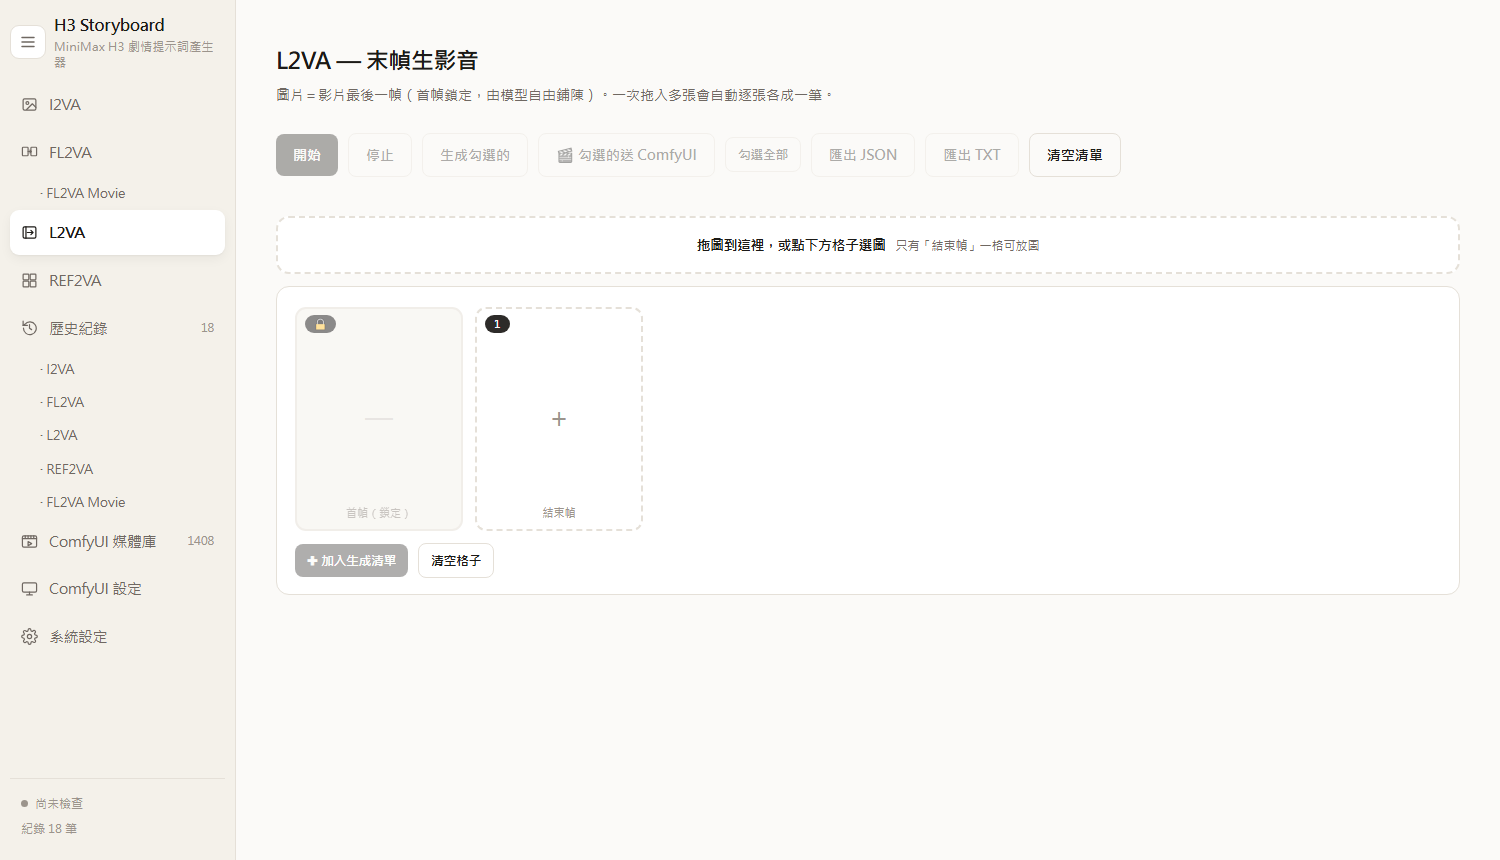
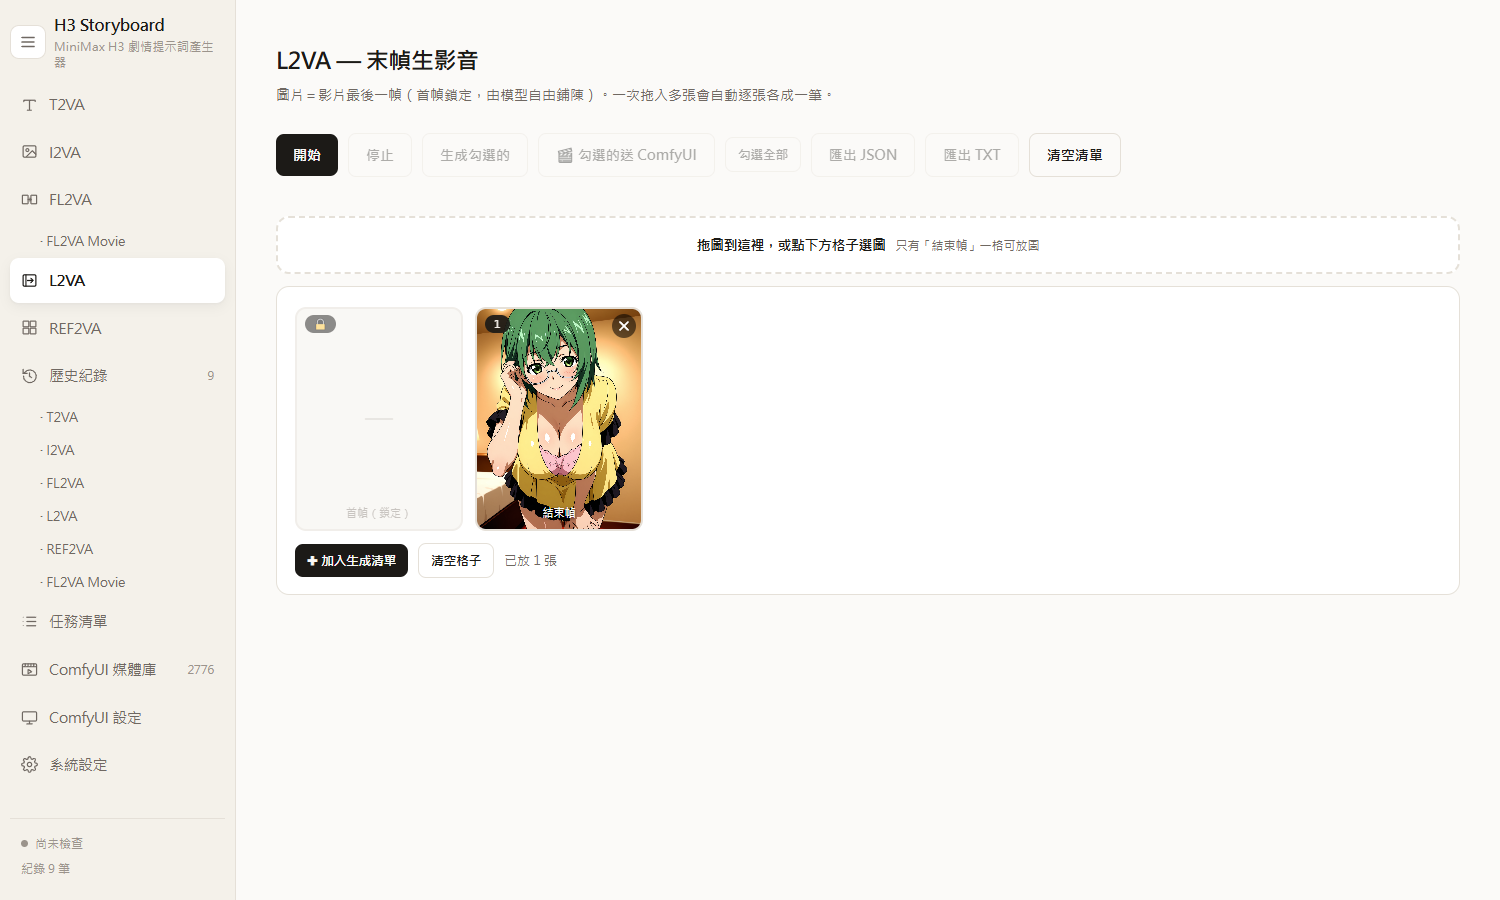
Bring the README and its screenshots up to v1.8
Every screenshot predated the task queue, so none of them showed the
任務清單 entry in the sidebar. All are retaken against the current build,
and a new one shows the queue itself: an active job at the top as a large
card with its live preview, finished jobs as a compact grid below.

Three passages still described the per-card aspect-ratio picker, which v1.8
removed. They now describe what actually happens — the canvas is derived
from the input image and aligned to 32, keeping the pixel budget of the
selected quality tier — with the measured numbers as examples.

The FL2VA Movie shots were taken with an empty board; they now show four
storyboard images resolving to three segments, which is what the surrounding
text is describing.

diff --git a/README.md b/README.md
@@ -48,8 +48,8 @@ The image is the LAST frame; the first frame is unconstrained (locked slot), and
 
 ![REF2VA](docs/img/ref2va.png)
 
-Slots support drag-to-reorder, click-to-replace and per-slot remove; every card has its own aspect-ratio + orientation picker that is honored all the way into the rendered video and its embedded metadata.  
-格子支援拖曳換順序、再點一次換圖、單格移除；每張卡片有獨立的輸出比例＋方向選擇，一路生效到成品影片與其內嵌 metadata。
+Slots support drag-to-reorder, click-to-replace and per-slot remove. There is no aspect-ratio picker: the output canvas is derived from the input image itself and aligned to the model's 32-pixel grid, keeping the pixel budget of the quality tier you chose in ComfyUI settings — so a 1898×2492 portrait renders 640×864 and a 1536×1920 renders 672×832.  
+格子支援拖曳換順序、再點一次換圖、單格移除。沒有比例選項：輸出畫布直接由輸入圖推算並對齊模型要求的 32 像素格線，同時維持你在 ComfyUI 設定所選畫質檔位的像素預算——所以 1898×2492 的直式圖產出 640×864，1536×1920 產出 672×832。
 
 ---
 
@@ -118,8 +118,8 @@ Pick any workflow .json from your workflow folder (or upload one from the page) 
   依模式對應欄位：基礎模式填 Director 三欄位，REF2VA 填六個專屬 ref 欄位，完整 prompt 一律同時走 `external_prompt`。
 - Default parameters (fps, resolution, steps, shift...) can be overridden per send; empty fields keep the template's own values.  
   預設參數（fps／解析度／步數／shift…）可逐項覆寫；留空一律照模板原值。
-- Finished videos embed the full workflow metadata — including the resolution/aspect actually applied — so dragging a video back into ComfyUI restores the exact graph and prompt.  
-  成品影片內嵌完整工作流參數（含當次實際套用的解析度／比例），拖回 ComfyUI 即還原當時的節點圖與 Prompt。
+- Finished videos embed the full workflow metadata — including the canvas actually applied — so dragging a video back into ComfyUI restores the exact graph and prompt.  
+  成品影片內嵌完整工作流參數（含當次實際套用的畫布尺寸），拖回 ComfyUI 即還原當時的節點圖與 Prompt。
 - A media library page browses everything in the ComfyUI output folder.  
   媒體庫頁可瀏覽 ComfyUI 輸出資料夾的所有成品。
 
@@ -137,13 +137,17 @@ Everything sent to ComfyUI — from any mode — goes into one queue held by the
 
 - Jobs run strictly one at a time: the dispatcher keeps ComfyUI's own queue at depth 1, so every browser sees the same order and the GPU is never double-booked.  
   任務嚴格逐一執行：派工把 ComfyUI 自己的佇列維持在深度 1，所以每個瀏覽器看到的順序一致，GPU 也不會被重複佔用。
-- While a job runs the row shows a progress bar and the **live preview** coming out of the sampler; when it finishes the row becomes the playable result.  
-  生成中會顯示進度條與取樣器吐出的**即時預覽**；完成後該列直接變成可播放的成品。
+- Active jobs sit at the top as large cards showing a progress bar and the **live preview** coming out of the sampler; finished ones collapse into a compact grid below, where hovering a card reveals its title, timestamp, output path and any error.  
+  進行中的任務以大卡置頂，顯示進度條與取樣器吐出的**即時預覽**；完成的收在下方小卡格狀排列，滑鼠移到卡片上才顯示標題、時間、輸出路徑與錯誤訊息。
+- The list updates each row in place rather than redrawing itself, so a video you are watching is never restarted and full-screen playback is never interrupted.  
+  清單是逐列就地更新而非整塊重畫，所以正在看的影片不會被重來，全螢幕播放也不會被打斷。
 - Anything already queued survives a server restart too — the queue is on disk, because ComfyUI's own history is in-memory and is wiped whenever ComfyUI restarts.  
   已排入的任務連伺服器重啟都不會掉——佇列存在磁碟，因為 ComfyUI 自己的歷史是記憶體暫存，它一重啟就清空。
 
 Progress and previews arrive over a single WebSocket the server holds. That is a requirement, not an optimisation: ComfyUI unicasts these events to one client id, so a second connection claiming the same id would silently starve the first.
 進度與預覽由伺服器持有的單一 WebSocket 收取。這是必要條件而非最佳化：ComfyUI 的這些事件是單播給單一 client id，第二條同 id 的連線會讓第一條靜默收不到東西。
+
+![Task queue](docs/img/queue.png)
 
 ---
 
@@ -159,8 +163,8 @@ Work you have not sent yet is preserved too: images dropped into slots and cards
 
 ## History + automatic video review 歷史紀錄＋自動影片審查
 
-Every generation is stored server-side (with its images and chosen aspect ratio) and shared across devices on your LAN; filter by filename or mode, rerun any record with its original inputs, or resend it to ComfyUI with the same aspect.  
-每筆生成（含圖片與所選比例）存在伺服器端，區網任何裝置看到同一份；可依檔名／模式篩選，任一筆可用原輸入重跑 Prompt 或以同比例重送 ComfyUI。
+Every generation is stored server-side with its images and parameters and shared across devices on your LAN; filter by filename or mode, rerun any record with its original inputs, or resend it straight to ComfyUI — handy for rerolling the seed on a shot you almost like.  
+每筆生成（含圖片與參數）存在伺服器端，區網任何裝置看到同一份；可依檔名／模式篩選，任一筆可用原輸入重跑 Prompt，或直接重送 ComfyUI——想對某顆鏡頭換 seed 抽卡時很方便。
 
 ![History](docs/img/history.png)
 
